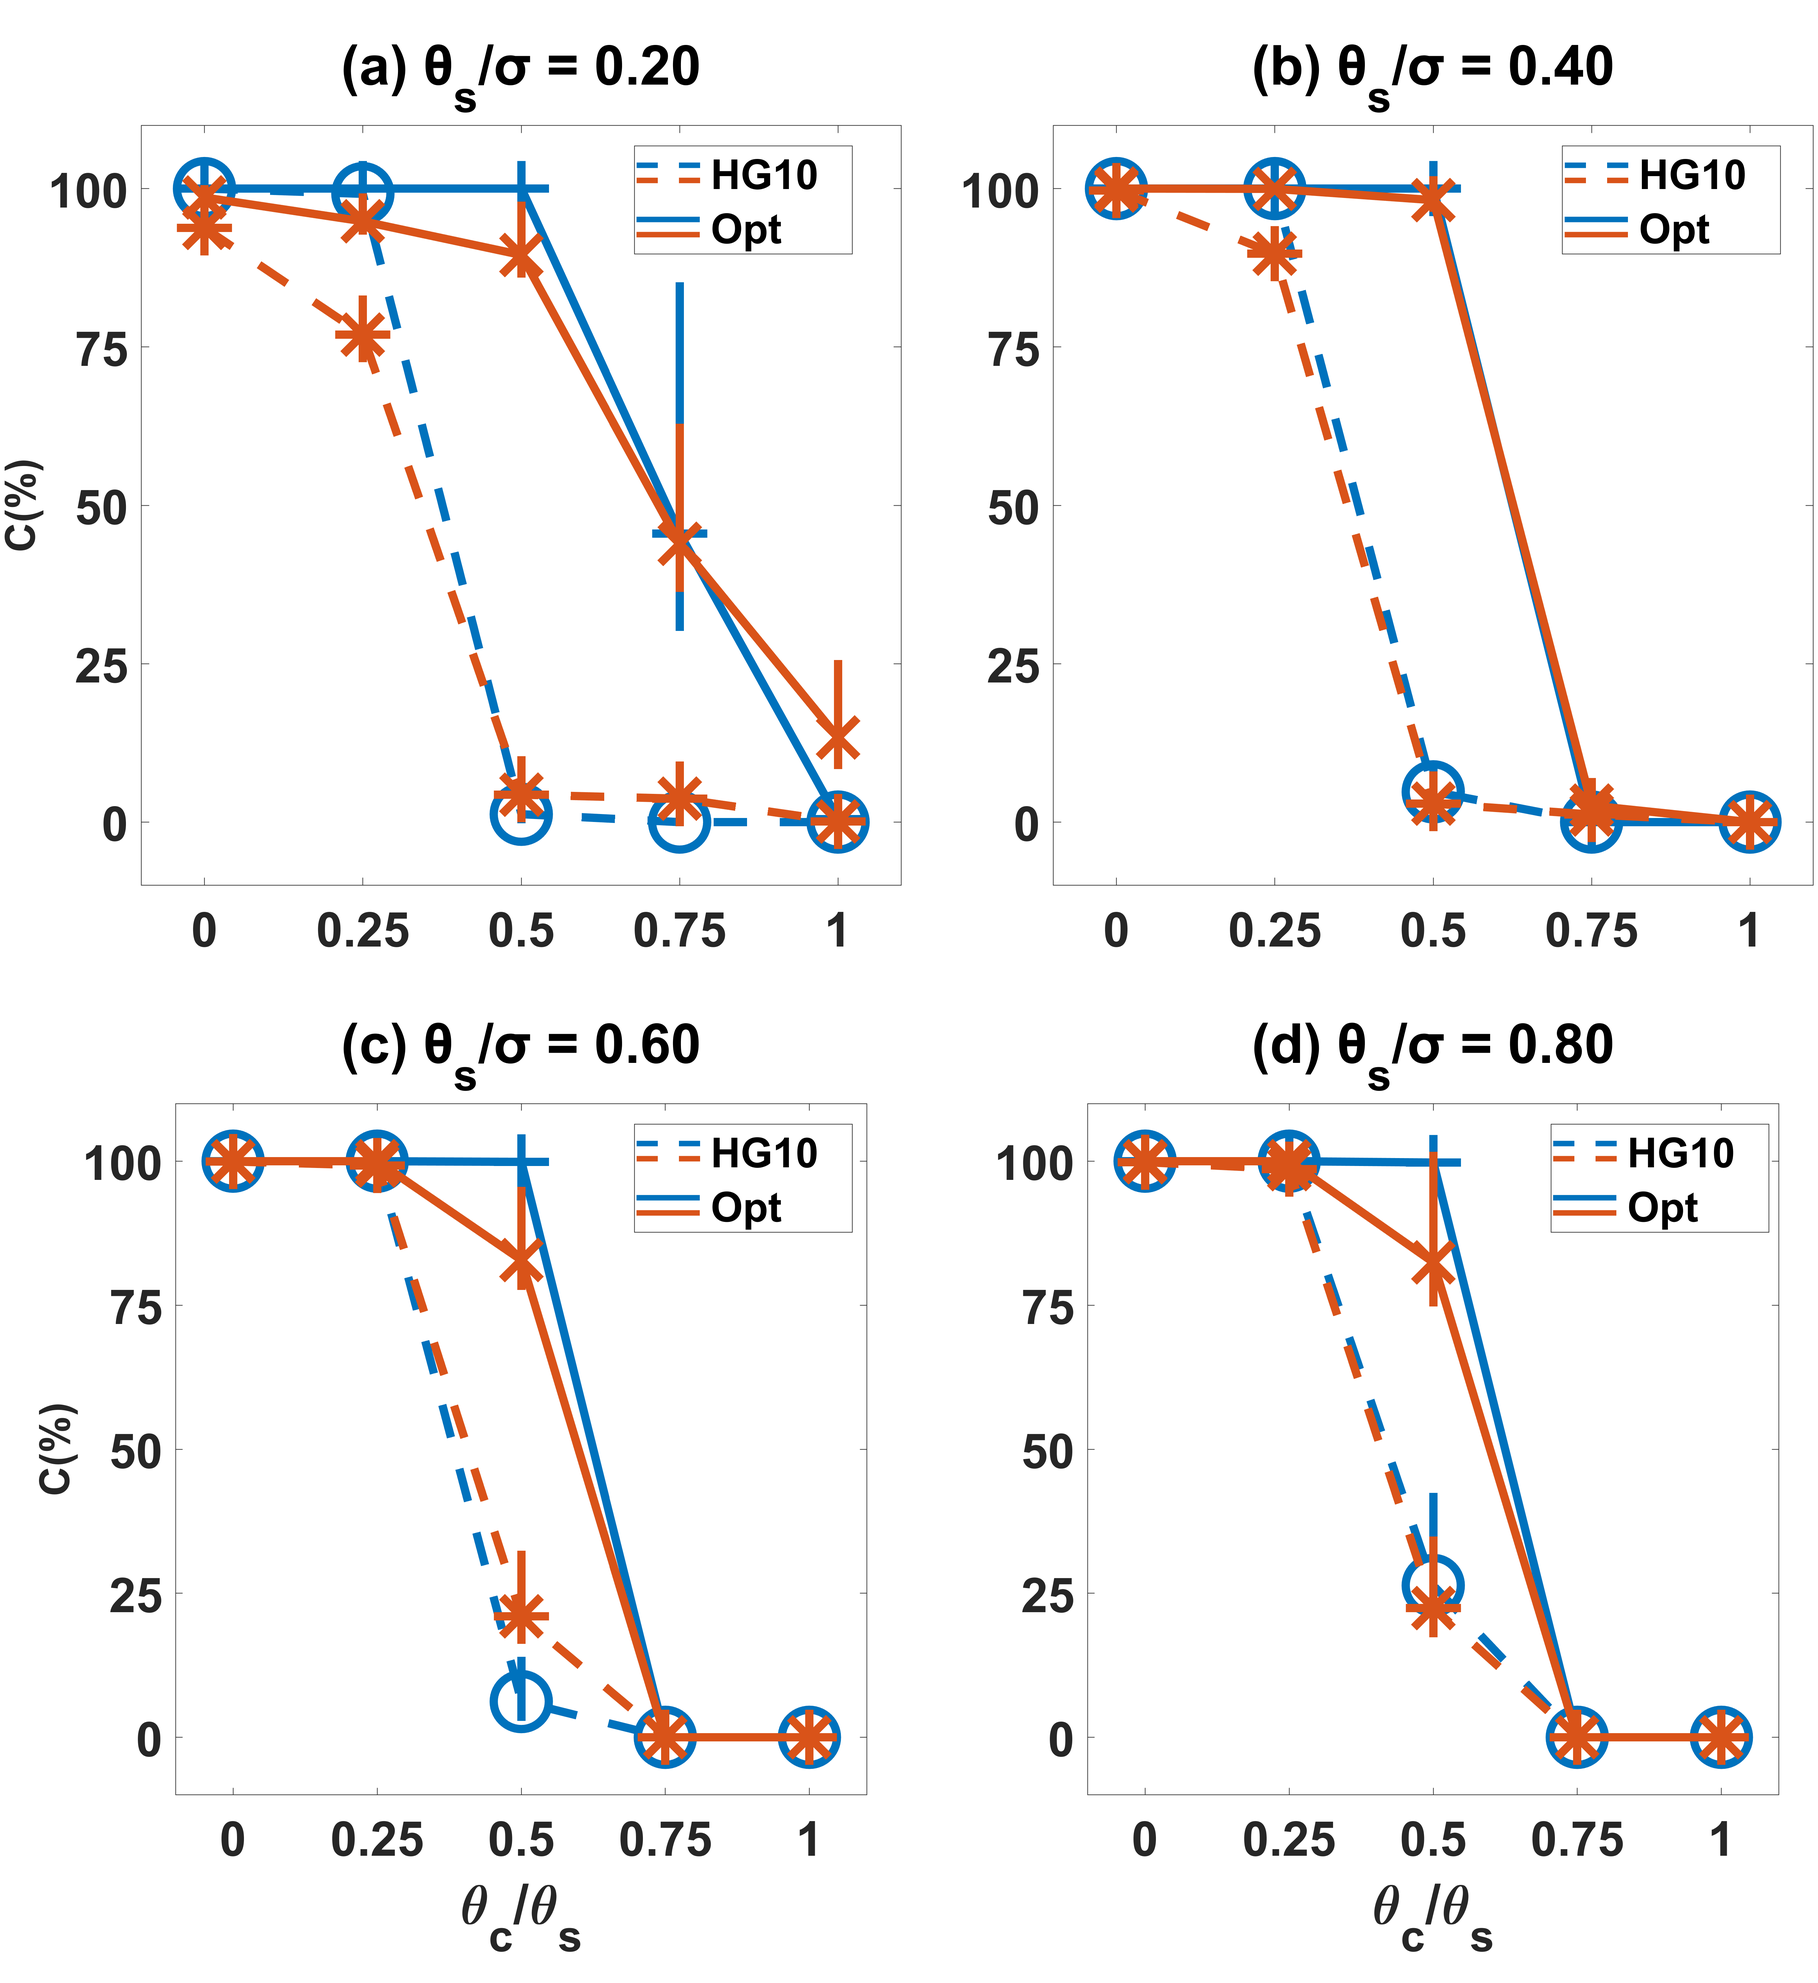
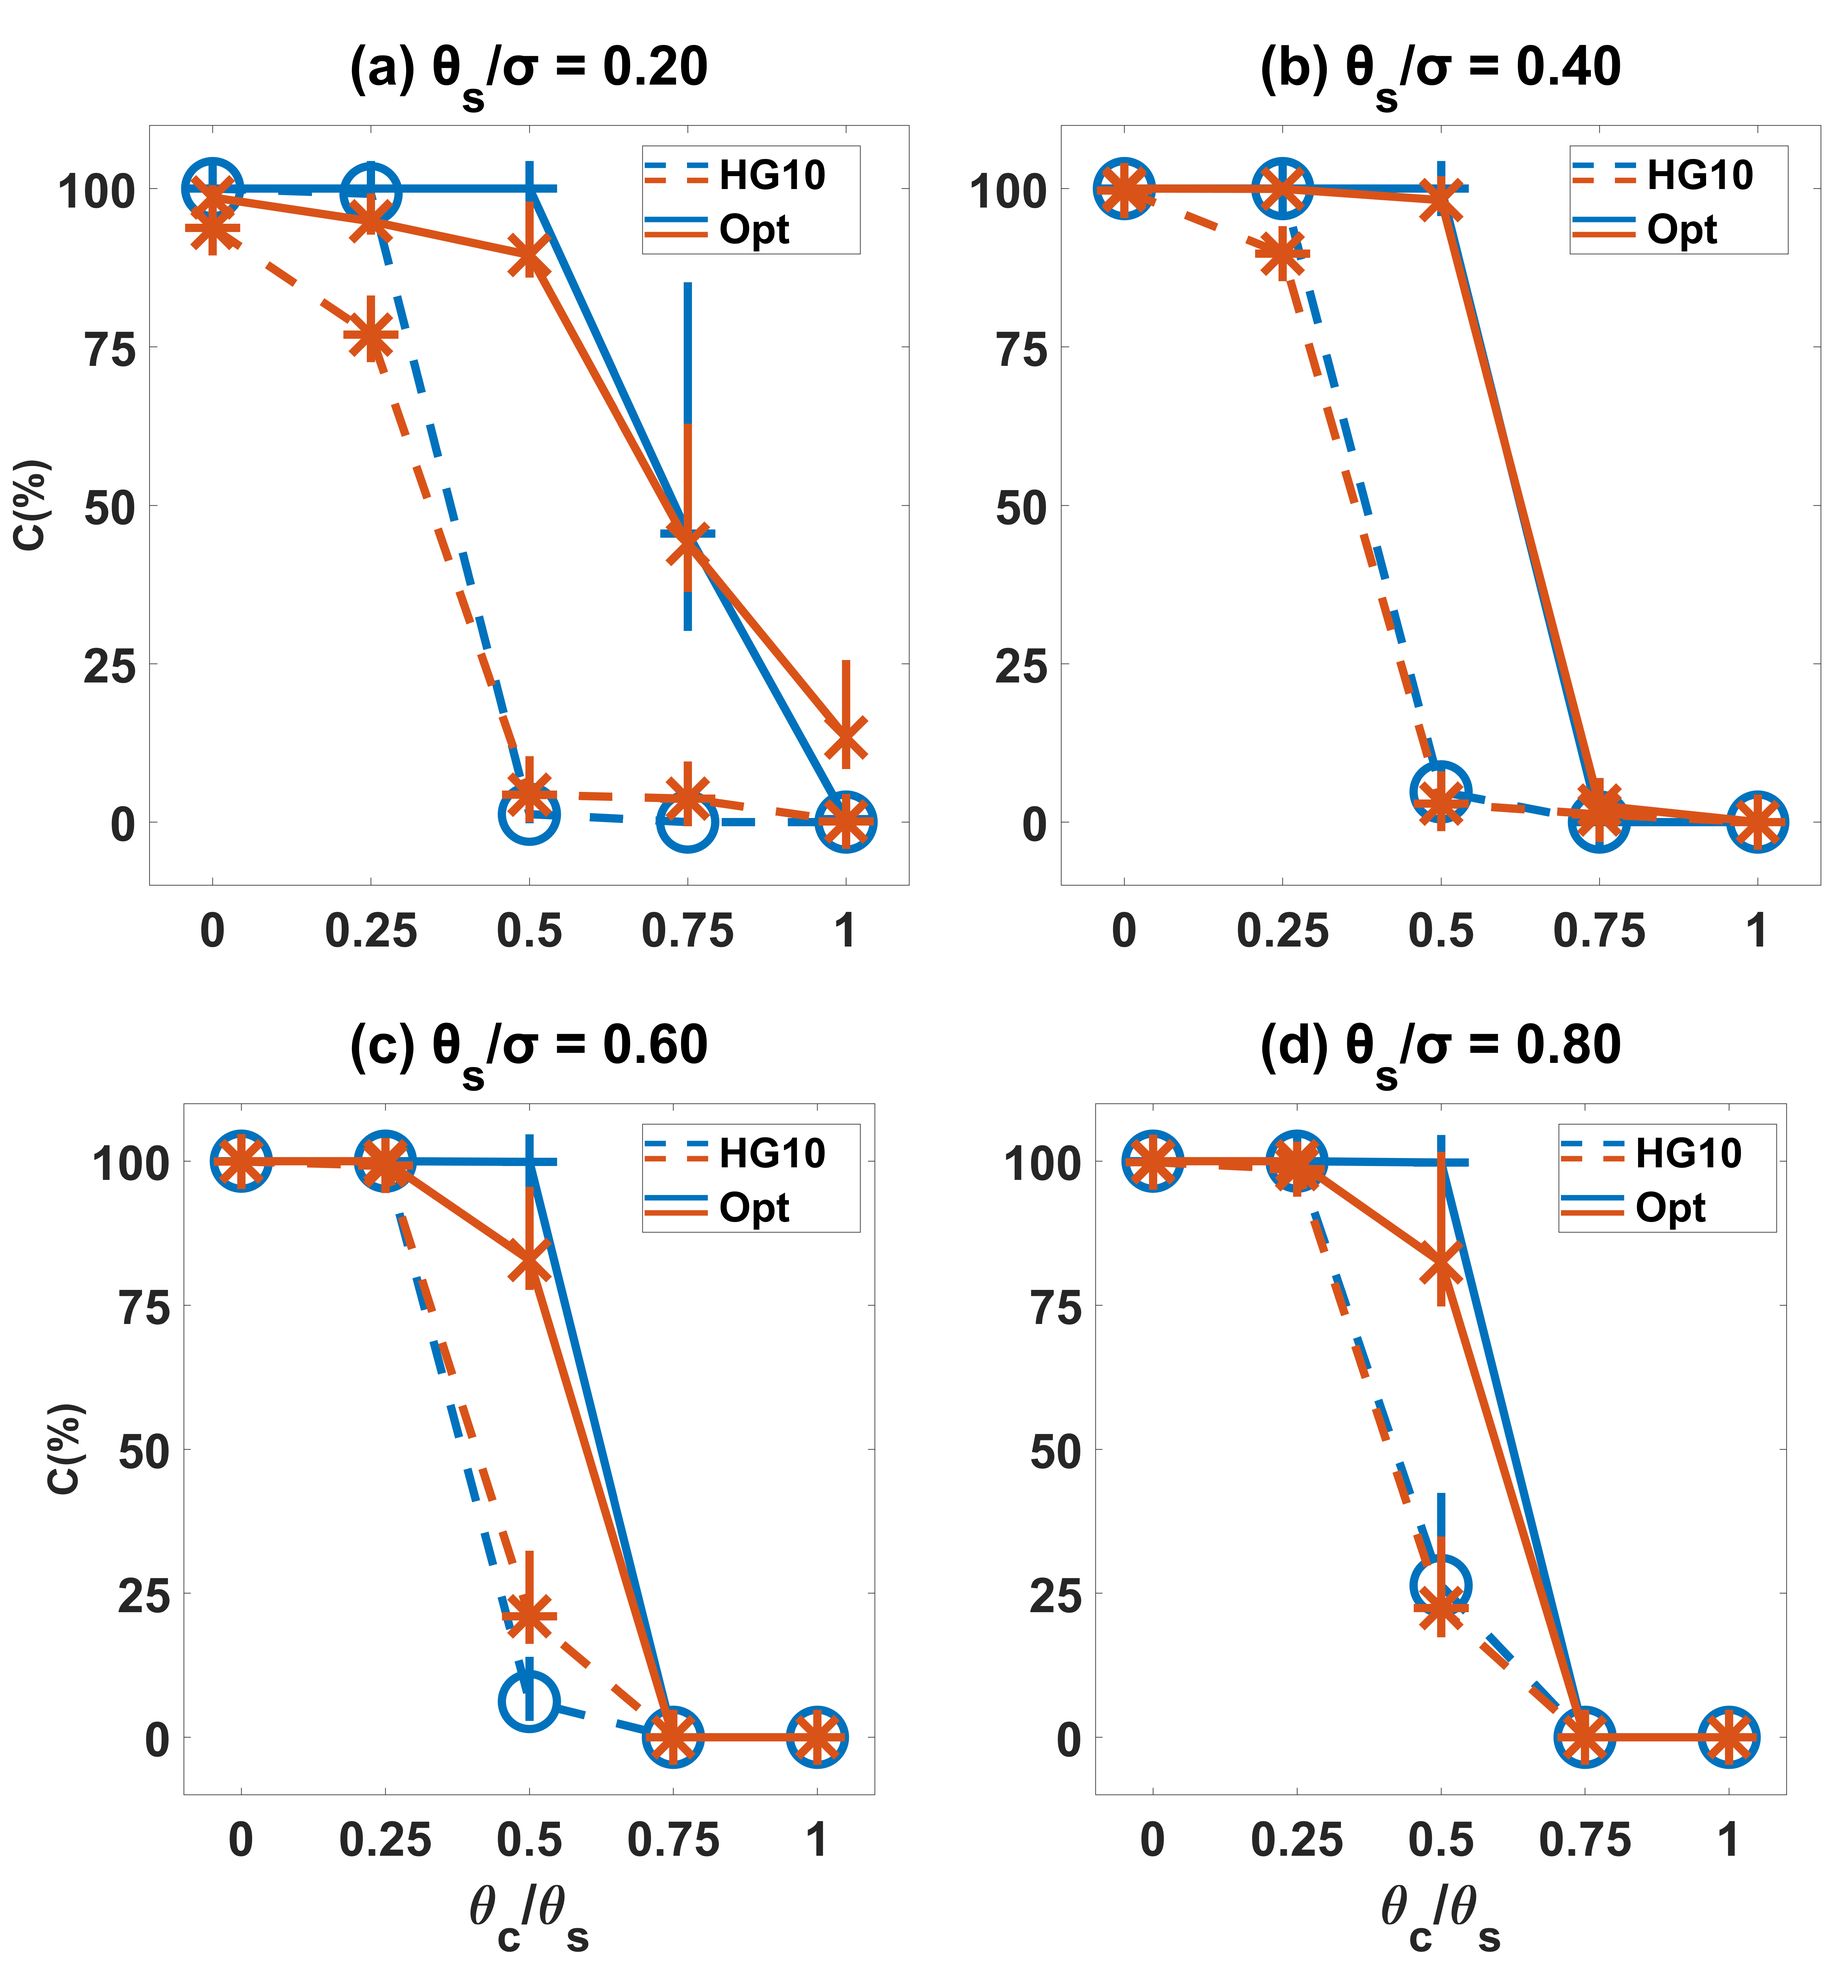
Updated figure codes

diff --git a/BrightnessStudy/Analysis.m b/BrightnessStudy/Analysis.m
@@ -50,10 +50,10 @@ e_O = zeros(length(t_s_by_sigma),length(eps),2);
 
 for j = 1: length(t_s_by_sigma)
     for k = 1:length(eps)
-        pd_HG = fitdist(C_HG(:,j,k),'Normal');
-        pd_O = fitdist(C_O(:,j,k),'Normal');
-        e_HG(j,k,:) = paramci(pd_HG,'Parameter','sigma','Alpha',0.05);
-        e_O(j,k,:) = paramci(pd_O,'Parameter','sigma','Alpha',0.05);
+        pd_HG = fitdist(C_HG(:,j,k),'Normal'); % Distribution of 10 experiments
+        pd_O = fitdist(C_O(:,j,k),'Normal'); % Distribution of 10 experiments
+        e_HG(j,k,:) = paramci(pd_HG,'Parameter','sigma','Alpha',0.05); % 95% confidence intervals of the distribution
+        e_O(j,k,:) = paramci(pd_O,'Parameter','sigma','Alpha',0.05); % 95% confidence intervals of the distribution
     end
 end
 
@@ -74,30 +74,22 @@ for i = 1:2
     xticks(eps);
     xlim([0.5 0.8]);
     title(sprintf('(%s) \x03B8_s/\x3C3 = %.2f',t_ind(i),t_s_by_sigma(i)),'FontSize',40,'FontWeight','Bold')
-    % text(0.05,0.2,sprintf('\x03B8_s/\x3C3: %.2f',t_s_by_sigma(i)),'Units','Normalized','FontSize',30)
     xlim([0.48 0.82]);
     xticks(0.5:0.1:0.8)
 
     if i == 1
         ylim([40 100.5])
         yticks(40:20:100)
+        % text(0.49,52,sprintf('(%s) \x03B8_s/\x3C3 = %.2f',t_ind(i),t_s_by_sigma(i)),'FontSize',30,'Fontweight','bold');
     end
     if i == 2
         ylim([80 100.5])
         yticks(80:5:100)
+        % text(0.49,84,sprintf('(%s) \x03B8_s/\x3C3 = %.2f',t_ind(i),t_s_by_sigma(i)),'FontSize',30,'Fontweight','bold');
     end
-    if i == 3
-        ylim([85 100.5])
-        yticks(85:5:100)
-    end
-    if i == 4
-        ylim([85 100.5])
-        yticks(85:5:100)
-    end
-    % if i == 2
-        leg = legend('HG10','Opt','Location','Southwest','FontSize',30);
 
-    % end
+    leg = legend('HG10','Opt','Location','Southwest','FontSize',30);
+
     if i/2 > 1
         xlabel('\epsilon','FontSize',50,'FontWeight','Bold')
     end
@@ -106,7 +98,7 @@ for i = 1:2
     end
 end
 
-exportgraphics(f1,'bgt_fid1.png','Resolution',300);
+% exportgraphics(f1,'bgt_fid1.png','Resolution',300);
 
 f2 = figure('WindowState','maximized');
 
@@ -120,25 +112,18 @@ for i = 3:4
     xticks(eps);
     xlim([0.5 0.8]);
     title(sprintf('(%s) \x03B8_s/\x3C3 = %.2f',t_ind(i),t_s_by_sigma(i)),'FontSize',40,'FontWeight','Bold')
-    % text(0.05,0.2,sprintf('\x03B8_s/\x3C3: %.2f',t_s_by_sigma(i)),'Units','Normalized','FontSize',30)
     xlim([0.48 0.82]);
     xticks(0.5:0.1:0.8)
 
-    if i == 1
-        ylim([40 100.5])
-        yticks(40:20:100)
-    end
-    if i == 2
-        ylim([85 100.5])
-        yticks(80:5:100)
-    end
     if i == 3
         ylim([90 100.5])
         yticks(85:5:100)
+        % text(0.49,92.25,sprintf('(%s) \x03B8_s/\x3C3 = %.2f',t_ind(i),t_s_by_sigma(i)),'FontSize',30,'Fontweight','bold');
     end
     if i == 4
         ylim([90 100.5])
         yticks(85:5:100)
+        % text(0.49,92.25,sprintf('(%s) \x03B8_s/\x3C3 = %.2f',t_ind(i),t_s_by_sigma(i)),'FontSize',30,'Fontweight','bold');
     end
 
     leg = legend('HG10','Opt','Location','Southwest','FontSize',30);
@@ -151,17 +136,17 @@ for i = 3:4
     end
 end
 
-exportgraphics(f2,'bgt_fid2.png','Resolution',300);
+% exportgraphics(f2,'bgt_fid2.png','Resolution',300);
 
 %% Combined figures
 
-i1 = imread("bgt_fid1.png");
-i2 = imread("bgt_fid2.png");
-
-i1 = padarray(i1,[ceil((3000-size(i1,1))/2) ceil((5750-size(i1,2))/2) 0],255);
-i2 = padarray(i2,[ceil((3000-size(i2,1))/2) ceil((5750-size(i2,2))/2) 0],255);
-
-i = cat(1,i1(1:3000,1:5750,:),i2(1:3000,1:5750,:));
-close all;
-
-imwrite(i,'bgt_fid.png')
+% i1 = imread("bgt_fid1.png");
+% i2 = imread("bgt_fid2.png");
+% 
+% i1 = padarray(i1,[ceil((3000-size(i1,1))/2) ceil((5750-size(i1,2))/2) 0],255);
+% i2 = padarray(i2,[ceil((3000-size(i2,1))/2) ceil((5750-size(i2,2))/2) 0],255);
+% 
+% i = cat(1,i1(1:3000,1:5750,:),i2(1:3000,1:5750,:));
+% close all;
+% 
+% imwrite(i,'bgt_fid.png')

diff --git a/MisalignmentStudy/FiguresForPaper/CombinedFigures.m b/MisalignmentStudy/FiguresForPaper/CombinedFigures.m
@@ -31,7 +31,6 @@ for i = 1:2
     xticks(t_c_by_t_s);
     yticks(0:50:100)
     title(sprintf('(%s) \x03B8_s/\x3C3 = %.2f',t_ind(i),t_s_by_sigma(i)),'FontSize',40,'Fontweight','bold')
-    % text(0.75,90,sprintf('\x03B8_s/\x3C3: %.2f',C_5000.t_s_list(i)),'FontSize',30)
     % if i == 1
         [lh, labelhandles] = legend({'HG10','Opt'},'FontSize',30);
         lh.Position = [gca().Position(1)+(0.67*gca().Position(3))   gca().Position(2)+0.64    0.11   0.11];
@@ -64,6 +63,7 @@ for i = 1:2
     xticks(0:0.25:1.00)
     yticks(0:25:100)
     ylim([-10 110])
+    % text(-0.05,5,sprintf('(%s) \x03B8_s/\x3C3 = %.2f',t_ind(i),t_s_by_sigma(i)),'FontSize',30,'Fontweight','bold');
 end
 
 exportgraphics(f1,sprintf('mis_fid%i.png',i/2),'Resolution',300);
@@ -87,7 +87,6 @@ for i = 3:4
     xticks(t_c_by_t_s);
     yticks(0:50:100)
     title(sprintf('(%s) \x03B8_s/\x3C3 = %.2f',t_ind(i),t_s_by_sigma(i)),'FontSize',40,'Fontweight','bold')
-    % text(0.75,90,sprintf('\x03B8_s/\x3C3: %.2f',C_5000.t_s_list(i)),'FontSize',30)
     % if i == 1
         [lh, labelhandles] = legend({'HG10','Opt'},'FontSize',30);
         lh.Position = [gca().Position(1)+(0.67*gca().Position(3))   0.75   0.11   0.11];
@@ -120,6 +119,7 @@ for i = 3:4
     xticks(0:0.25:1.00)
     yticks(0:25:100)
     ylim([-10 110])
+    % text(-0.05,5,sprintf('(%s) \x03B8_s/\x3C3 = %.2f',t_ind(i),t_s_by_sigma(i)),'FontSize',30,'Fontweight','bold');
 end
 
 exportgraphics(f2,sprintf('mis_fid%i.png',i/2),'Resolution',300)
@@ -129,10 +129,10 @@ exportgraphics(f2,sprintf('mis_fid%i.png',i/2),'Resolution',300)
 i1 = imread("mis_fid1.png");
 i2 = imread("mis_fid2.png");
 
-i1 = padarray(i1,[ceil((3000-size(i1,1))/2) ceil((5500-size(i1,2))/2) 0],255);
-i2 = padarray(i2,[ceil((3000-size(i2,1))/2) ceil((5500-size(i2,2))/2) 0],255);
+i1 = padarray(i1,[ceil((3000-size(i1,1))/2) ceil((5550-size(i1,2))/2) 0],255);
+i2 = padarray(i2,[ceil((3000-size(i2,1))/2) ceil((5550-size(i2,2))/2) 0],255);
 
-i = cat(1,i1(1:3000,1:5500,:),i2(1:3000,1:5500,:));
+i = cat(1,i1(1:3000,1:5550,:),i2(1:3000,1:5550,:));
 close all;
 
 imwrite(i,'mis_fid.png')

diff --git a/MisalignmentStudy/5000Photons/Analysis.m b/MisalignmentStudy/5000Photons/Analysis.m
@@ -54,14 +54,12 @@ e_O = zeros(length(t_s_by_sigma),length(t_c_by_t_s),2);
 
 for j = 1: length(t_s_by_sigma)
     for k = 1:length(t_c_by_t_s)
-        pd_HG = fitdist(C_HG(:,j,k),'Normal');
-        pd_O = fitdist(C_O(:,j,k),'Normal');
-        e_HG(j,k,:) = paramci(pd_HG,'Parameter','sigma','Alpha',0.05);
-        e_O(j,k,:) = paramci(pd_O,'Parameter','sigma','Alpha',0.05);
+        pd_HG = fitdist(C_HG(:,j,k),'Normal'); % Distribution of 10 experiments
+        pd_O = fitdist(C_O(:,j,k),'Normal');% Distribution of 10 experiments
+        e_HG(j,k,:) = paramci(pd_HG,'Parameter','sigma','Alpha',0.05); % 95% confidence intervals of the distribution
+        e_O(j,k,:) = paramci(pd_O,'Parameter','sigma','Alpha',0.05); % 95% confidence intervals of the distribution
     end
 end
-
-% save('C_5000','C_HG_mean','C_O_mean','e_HG','e_O','t_s_by_sigma','t_c_by_t_s')
 
 %% Plot Results
 

diff --git a/MisalignmentStudy/500Photons/Analysis.m b/MisalignmentStudy/500Photons/Analysis.m
@@ -52,10 +52,10 @@ e_O = zeros(length(t_s_by_sigma),length(t_c_by_t_s),2);
 
 for j = 1: length(t_s_by_sigma)
     for k = 1:length(t_c_by_t_s)
-        pd_HG = fitdist(C_HG(:,j,k),'Normal');
-        pd_O = fitdist(C_O(:,j,k),'Normal');
-        e_HG(j,k,:) = paramci(pd_HG,'Parameter','sigma','Alpha',0.05);
-        e_O(j,k,:) = paramci(pd_O,'Parameter','sigma','Alpha',0.05);
+        pd_HG = fitdist(C_HG(:,j,k),'Normal'); % Distribution of 10 experiments
+        pd_O = fitdist(C_O(:,j,k),'Normal'); % Distribution of 10 experiments
+        e_HG(j,k,:) = paramci(pd_HG,'Parameter','sigma','Alpha',0.05); % 95% confidence intervals of the distribution
+        e_O(j,k,:) = paramci(pd_O,'Parameter','sigma','Alpha',0.05); % 95% confidence intervals of the distribution
     end
 end
 
